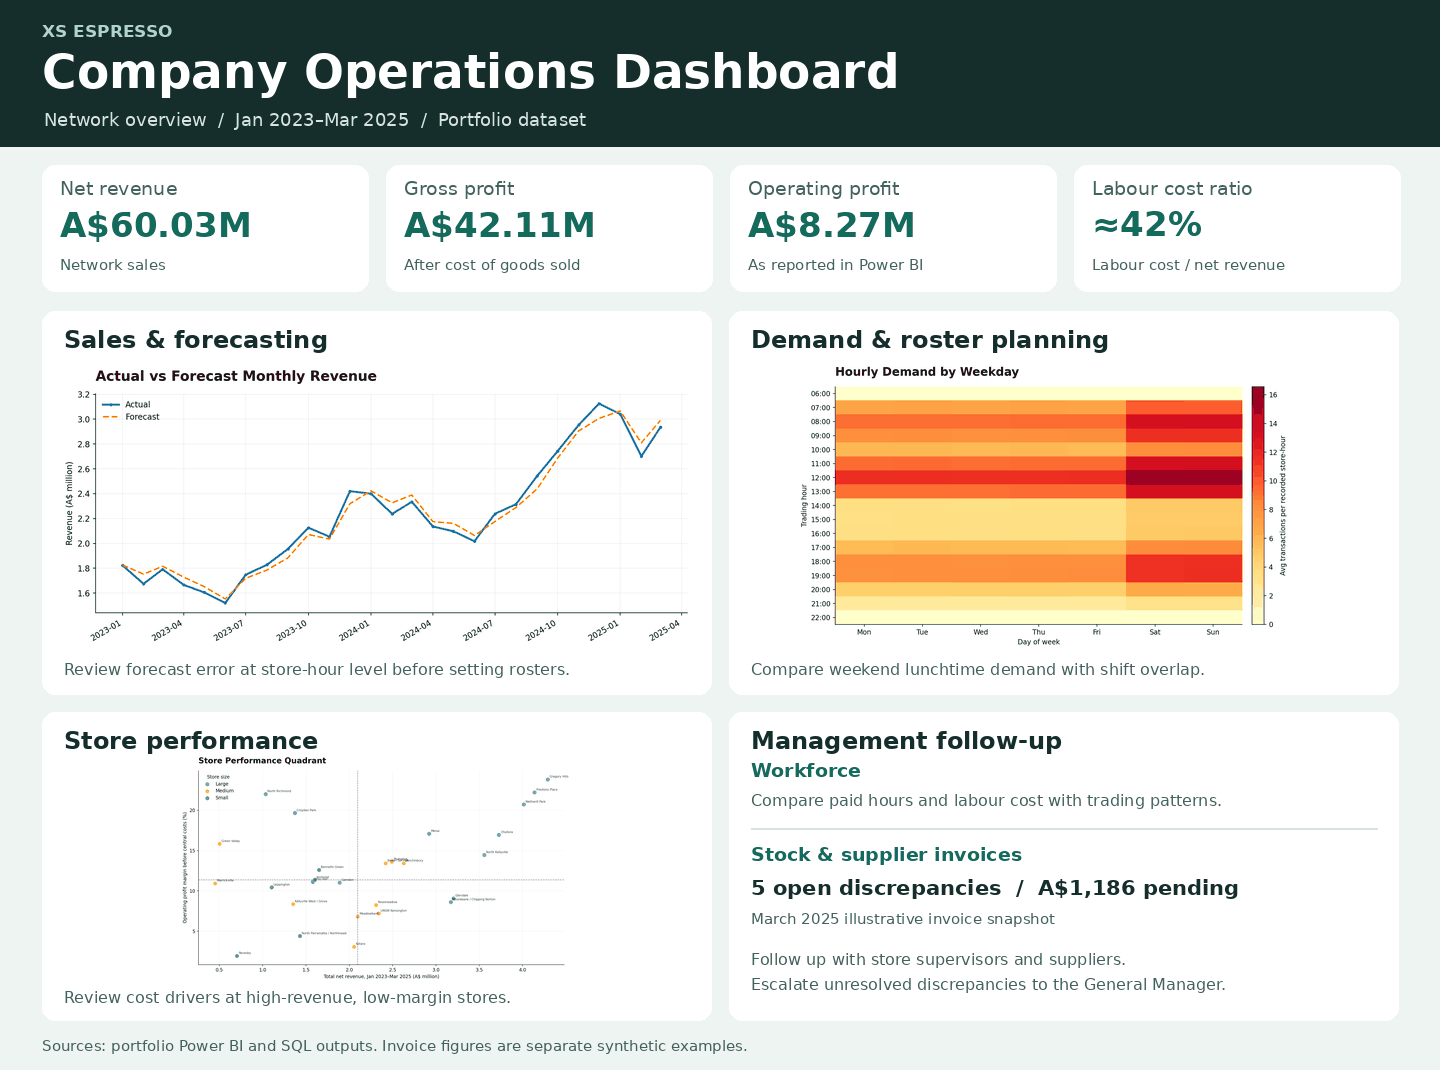
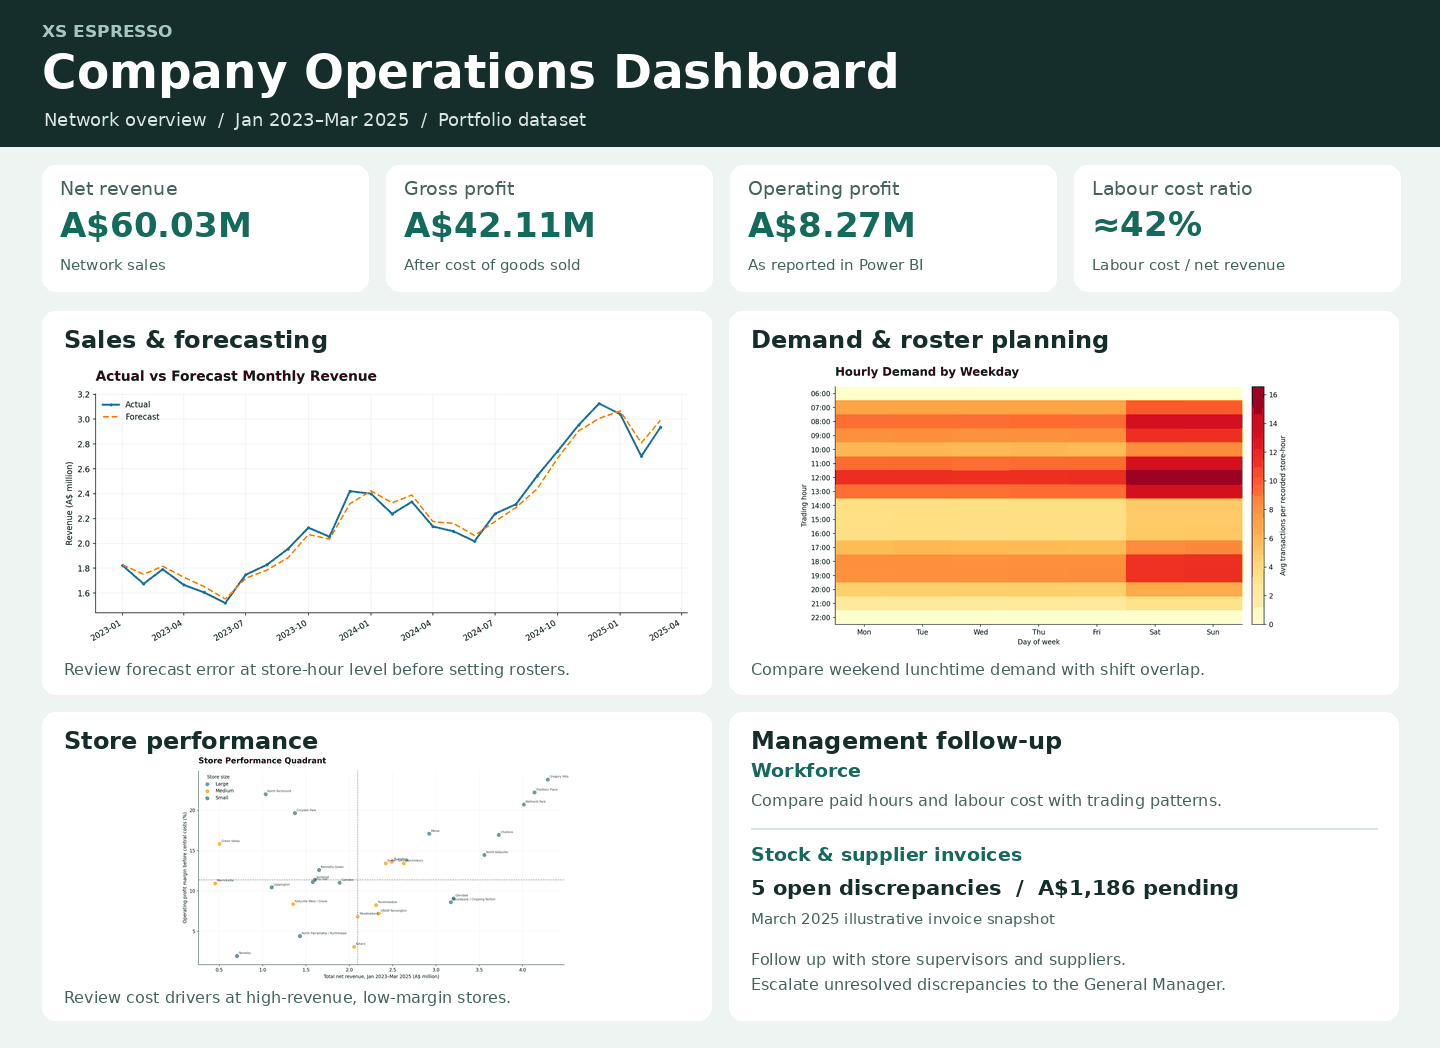
Remove dashboard image footer and restore README resources

diff --git a/XS Espresso Analytics/dashboard/build_company_operations_dashboard.py b/XS Espresso Analytics/dashboard/build_company_operations_dashboard.py
@@ -9,7 +9,7 @@ MUTED = "#42625d"
 ACCENT = "#136b5c"
 PAPER = "#edf4f1"
 
-canvas = Image.new("RGB", (1440, 1070), PAPER)
+canvas = Image.new("RGB", (1440, 1048), PAPER)
 draw = ImageDraw.Draw(canvas)
 
 
@@ -70,6 +70,5 @@ text(751, 879, "5 open discrepancies  /  A$1,186 pending", 21, INK, True)
 text(751, 913, "March 2025 illustrative invoice snapshot", 15, MUTED)
 text(751, 953, "Follow up with store supervisors and suppliers.", 16, MUTED)
 text(751, 978, "Escalate unresolved discrepancies to the General Manager.", 16, MUTED)
-text(42, 1040, "Sources: portfolio Power BI and SQL outputs. Invoice figures are separate synthetic examples.", 15, MUTED)
 
 canvas.quantize(colors=150).save(SCREENSHOTS / "company_operations_dashboard.png", optimize=True)

diff --git a/XS Espresso Analytics/README.md b/XS Espresso Analytics/README.md
@@ -34,13 +34,15 @@ Relationships use date and store identifiers, with dimensions filtering facts. T
 
 ## 3. Business Overview
 
-### Company Operations Dashboard
+### Operational Dashboard — Supplier Invoice Reconciliation
 
-![XS Espresso company operations dashboard covering network sales, profit, labour, demand, store performance, and invoice follow-up](screenshots/company_operations_dashboard.png)
+![Operational dashboard showing invoice match rate, open variance by issue, and the aged exception queue](screenshots/operational_dashboard.png)
 
-The network view combines sales and profitability KPIs with monthly forecast trends, hourly demand for roster planning, and store-level margin comparisons. It helps managers decide where to review workforce coverage and investigate cost drivers. The stock and supplier invoice panel shows a separate March 2025 workflow demonstration with synthetic records.
+The dashboard shows how a store supervisor, supplier, and general manager can follow up on differences between supplier invoices and stock received. It tracks first-pass matches, open discrepancies, open variance in AUD, and the next action for each invoice. Items open for more than seven days are highlighted for management follow-up.
 
-[Open full-size company dashboard](screenshots/company_operations_dashboard.png) · [Dashboard generator](dashboard/build_company_operations_dashboard.py) · [Invoice reconciliation detail](screenshots/operational_dashboard.png) · [Original revenue dashboard](screenshots/revenue_dashboard.png)
+The March 2025 snapshot uses synthetic invoice records created for this portfolio demonstration. The repository's sales and financial data does not contain supplier invoices or receiving records.
+
+[Open full-size dashboard](screenshots/operational_dashboard.png) · [Dashboard generator](dashboard/build_operational_dashboard.py) · [Original revenue dashboard](screenshots/revenue_dashboard.png)
 
 ### Monthly Sales Distribution
 
@@ -154,3 +156,5 @@ WAPE = SUM(ABS(actual - forecast)) / SUM(ABS(actual)) × 100
 ## 9. Scope and Next Steps
 
 The dataset covers **January 2023–March 2025**, so 2025 is a partial year. Comparisons must use like-for-like periods. Food/drink allocation is modelled rather than observed item-level sales. Future work could validate forecast models out-of-sample and test demand-adjusted labour scheduling.
+
+**Project assets:** [Power BI dashboard](dashboard/XS_Espresso_Dashboard.pbix) · [Screenshots](screenshots/) · [SQL analyses](sql/portfolio_analyses.sql) · [SQL schema](sql/01_schema.sql) · [Data quality checks](sql/03_quality_checks.sql) · [KPI views](sql/05_kpi_views.sql) · [ERD source](docs/ERD.mmd).
